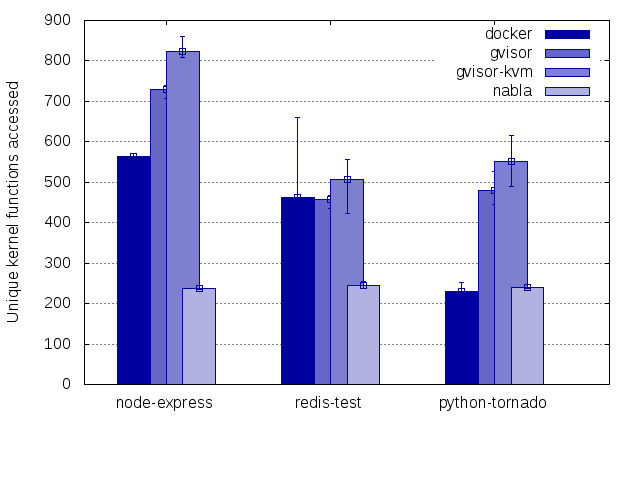
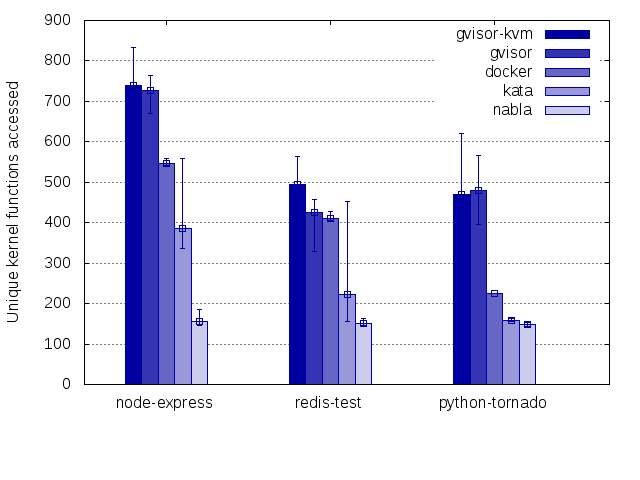
get containers from docker hub (#1)

diff --git a/README.md b/README.md
@@ -19,12 +19,13 @@ ends up in a directory for later perusal.
 
 The easiest way to replicate a test is to run commands of the form
 `./runtest.bash <RUNTIME> <CONTAINER> <OUTPUT_DIR>`.  RUNTIME can
-currently be `runc` (default docker), `runnc` (nabla), `runsc`
-(gvisor), or `runsck` (gvisor in kvm mode), and CONTAINER is one of
-those specified above.  Here are some examples:
+currently be `runc` (default docker), `runnc` (nabla), `kata` (kata
+containers), `runsc` (gvisor), or `runsck` (gvisor in kvm mode), and
+CONTAINER is one of those specified above.  Here are some examples:
 
     sudo ./runtest.bash runc node-express results/docker-node-express
     sudo ./runtest.bash runnc node-express results/nabla-node-express
+    sudo ./runtest.bash kata node-express results/kata-node-express
     sudo ./runtest.bash runsc node-express results/gvisor-node-express
     sudo ./runtest.bash runsck node-express results/gvisork-node-express           
 
@@ -35,10 +36,13 @@ repository](https://github.com/nabla-containers/runnc)):
     "runtimes": {
         "runnc": {
             "path": "/usr/local/bin/runnc"
-        }
+        },
+        "kata": {
+            "path": "/usr/bin/kata-runtime"
+        },
         "runsc": {
             "path": "/usr/local/bin/runsc"
-        }
+        },
         "runsck": {
             "path": "/usr/local/bin/runsc",
             "runtimeArgs": [
@@ -58,8 +62,8 @@ give the tracing enough time to turn on.  Partially this is because of
 how we gather the relevant pids.  This is done by looking through
 `pstree` for all the children of the `docker-containe` command
 specifying the `-runtime-root`, which is either `runtime-runc` (in the
-default case), `runtime-runnc` (in the nabla case), or `runtime-runsc`
-(in the gvisor case).
+default case), `runtime-runnc` (in the nabla case), `runtime-kata` (in
+the kata containers case) or `runtime-runsc` (in the gvisor case).
 
 We also process the raw traces primarily to eliminate interrupts,
 which may perform work on behalf of other processes.  There are two
@@ -77,8 +81,9 @@ system calls (e.g., `grep -i "^sys\_"`)
 
 ### Our results
 
-We have included some results for default docker, nabla, and gvisor
-containers that were obtained using the `graphs_generate.bash` script.
+We have included some results for default docker, nabla, kata, and
+gvisor containers that were obtained using the `graphs_generate.bash`
+script.
 
 
 ![functions](https://github.com/nabla-containers/measurements/blob/master/graph-functions.png?raw=true)
